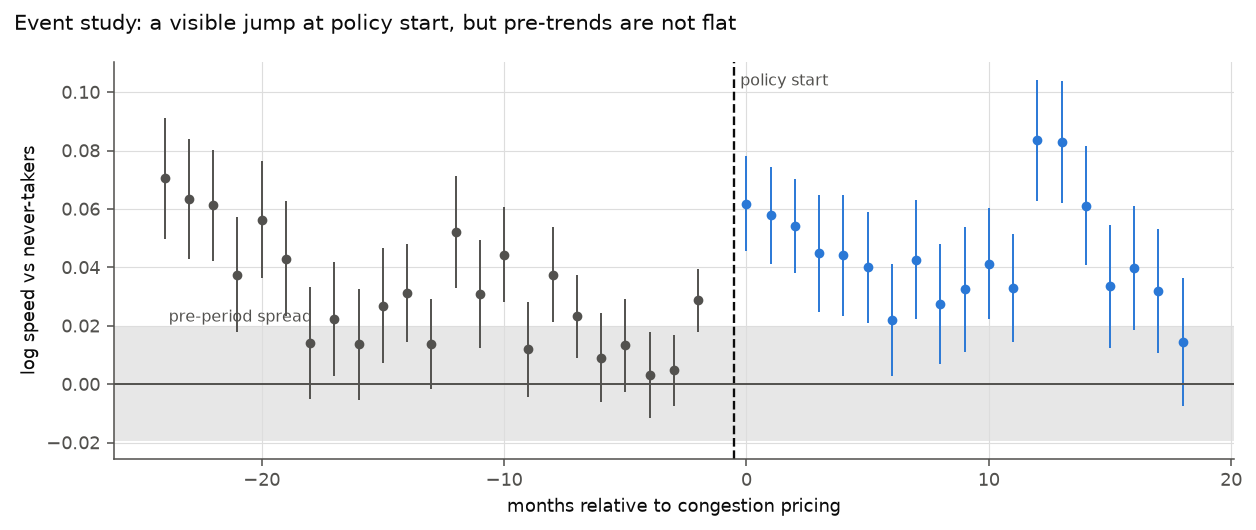
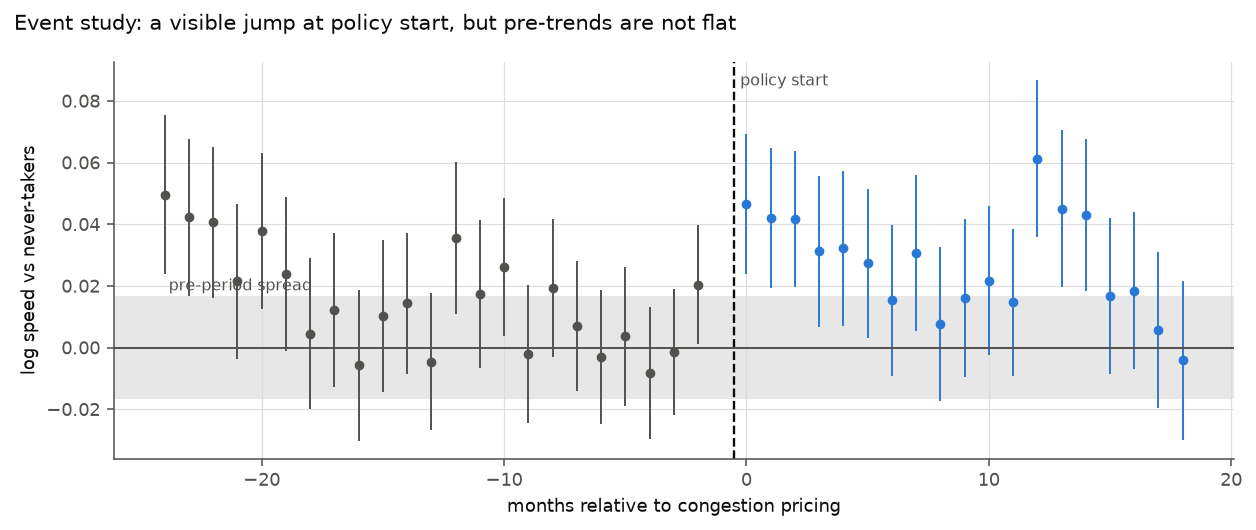
Final results: complete k_jam sweep and full never-taker control set
All pulls complete: bus segment speeds for four boroughs (43 months each), DOT
links, subway, B&T crossings, TLC citywide cells, CRZ entries.

Made per-month Socrata failures non-fatal. One unreachable month had aborted
the whole remaining DOT pull; it now logs and skips, leaving the file absent so
a re-run picks it up rather than treating the gap as settled. All 43 DOT months
landed on the retry.

Headline estimate re-run against 3,529 outer-borough never-takers instead of
Brooklyn alone: +1.5% (t=2.46), with the pre-period placebo at -1.2% (t=-2.09).
Brooklyn-only gives +1.8%/-1.6%, so the finding does not turn on the control
group.

The k_jam sweep completes at five values. The ablation beats the physics twin
identically at every pin (post-RMSE 0.138 vs 0.263-0.283), and the frozen-physics
behavioural shift tracks its own placebo throughout -- the two move together as
k_jam changes, which says the quantity tracks the pin rather than the policy.

diff --git a/src/mtwin/data/socrata.py b/src/mtwin/data/socrata.py
@@ -187,7 +187,14 @@ def cached_monthly_pull(
         )
         if extra_where:
             clause = f"({clause}) AND ({extra_where})"
-        df = fetch(ds, select=select, where=clause, group=group, order=order)
+        try:
+            df = fetch(ds, select=select, where=clause, group=group, order=order)
+        except RuntimeError as exc:
+            # One unreachable month must not abort the remaining pull. The file
+            # is left absent rather than written empty, so a later re-run picks
+            # it up instead of treating the gap as settled.
+            log.warning("%s %s: FAILED, skipping (%s)", ds.name, f"{win_start:%Y-%m}", exc)
+            continue
         if transform is not None and not df.is_empty():
             df = transform(df)
         # Write even when empty so a genuinely empty month is not refetched forever.

diff --git a/RESULTS.md b/RESULTS.md
@@ -97,18 +97,21 @@ object anyway: the accumulation scale was never identified from speed data.
 
 ## Result 3 — The speed effect is small and not cleanly separable
 
-Two-way fixed-effects exposure design, in-cordon bus segments against Brooklyn
-never-takers (Manhattan above 60th is contaminated by diverted traffic and is
-estimated separately rather than used as a control):
+Two-way fixed-effects exposure design, 298 in-cordon bus segments against 3,529
+outer-borough never-takers in Brooklyn, Queens and the Bronx (Manhattan above
+60th is contaminated by diverted traffic and is estimated separately rather than
+used as a control):
 
 | Term | Coefficient | SE | t |
 |---|---|---|---|
-| in-cordon × post | **+0.0178** | 0.0066 | 2.71 |
-| above-60th × post | +0.0098 | 0.0086 | 1.13 |
+| in-cordon × post | **+0.0151** | 0.0062 | 2.46 |
+| above-60th × post | +0.0071 | 0.0083 | 0.85 |
 
-That is a **+1.8%** speed effect. But a placebo that pretends the policy began in
-January 2024, using pre-period data only, returns **−0.0160 (t = −2.69)** — a
-spurious effect of comparable magnitude and opposite sign. The event study shows
+That is a **+1.5%** speed effect. But a placebo that pretends the policy began in
+January 2024, using pre-period data only, returns **−0.0121 (t = −2.09)** — a
+spurious effect of comparable magnitude and opposite sign. Restricting the
+control group to Brooklyn alone gives +1.8% and a −1.6% placebo, so the finding
+does not turn on the choice of never-takers. The event study shows
 a visible jump at policy start, but pre-period coefficients wander from +0.003 to
 +0.070, so parallel trends does not hold.
 
@@ -143,6 +146,9 @@ pinned jam-accumulation parameter:
 |---|---|---|---|
 | 30 | 0.263 | **0.138** | 0.212 |
 | 60 | 0.273 | **0.138** | 0.235 |
+| 90 | 0.279 | **0.138** | 0.235 |
+| 120 | 0.280 | **0.138** | 0.235 |
+| 150 | 0.283 | **0.138** | 0.238 |
 
 **The unconstrained model fits about twice as well, at every value of k_jam.**
 Reported rather than buried: the physics constraint costs accuracy here and does
@@ -150,10 +156,17 @@ not improve extrapolation across the policy shock.
 
 The frozen-physics experiment — freeze the fundamental diagram at its pre-policy
 values, re-estimate only the behaviour block on post-policy data, and measure how
-far the behaviour parameters move — gives a relative shift of **1.78 under the
-policy against 1.75 under a no-policy placebo** (2.71 vs 2.98 at k_jam = 60). The
-behavioural parameter shift does not distinguish the policy from nothing
-happening.
+far the behaviour parameters move — gives a relative shift that tracks its
+own placebo at every pin:
+
+| k_jam | 30 | 60 | 90 | 120 | 150 |
+|---|---|---|---|---|---|
+| under the policy | 1.78 | 2.71 | 3.71 | 3.67 | 4.07 |
+| under a no-policy placebo | 1.75 | 2.98 | 3.67 | 3.76 | 4.04 |
+
+The behavioural parameter shift does not distinguish the policy from nothing
+happening — and the two series move together as k_jam changes, which says the
+quantity is tracking the pin rather than the policy.
 
 ## Result 6 — Decomposition, with the bounds left visible
 
